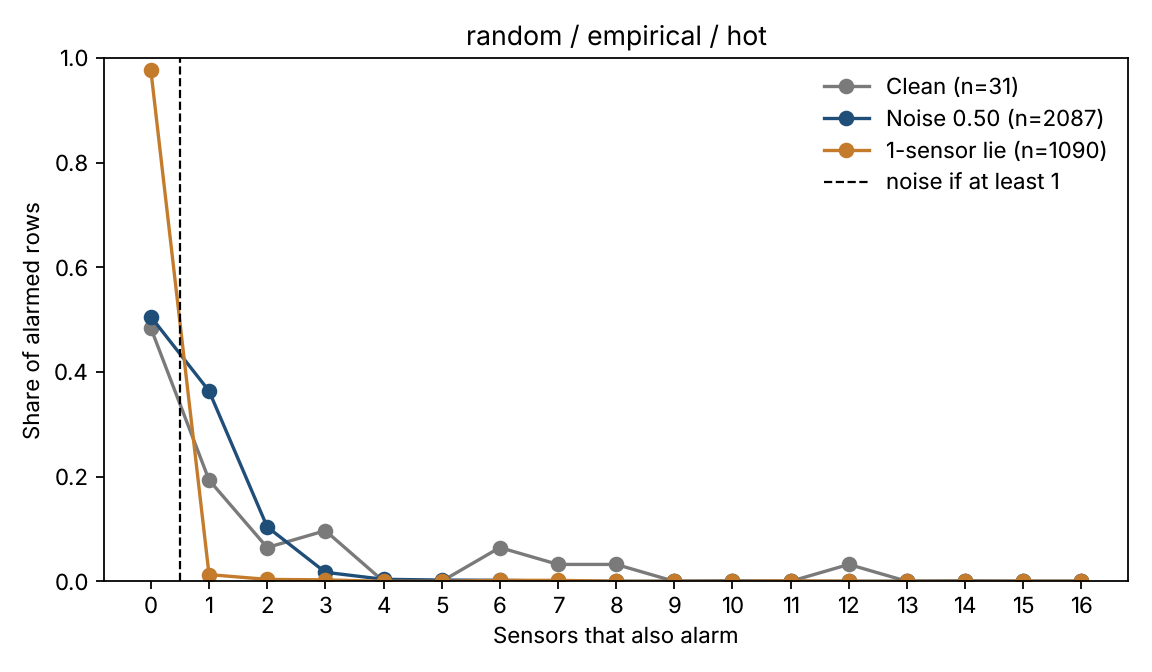
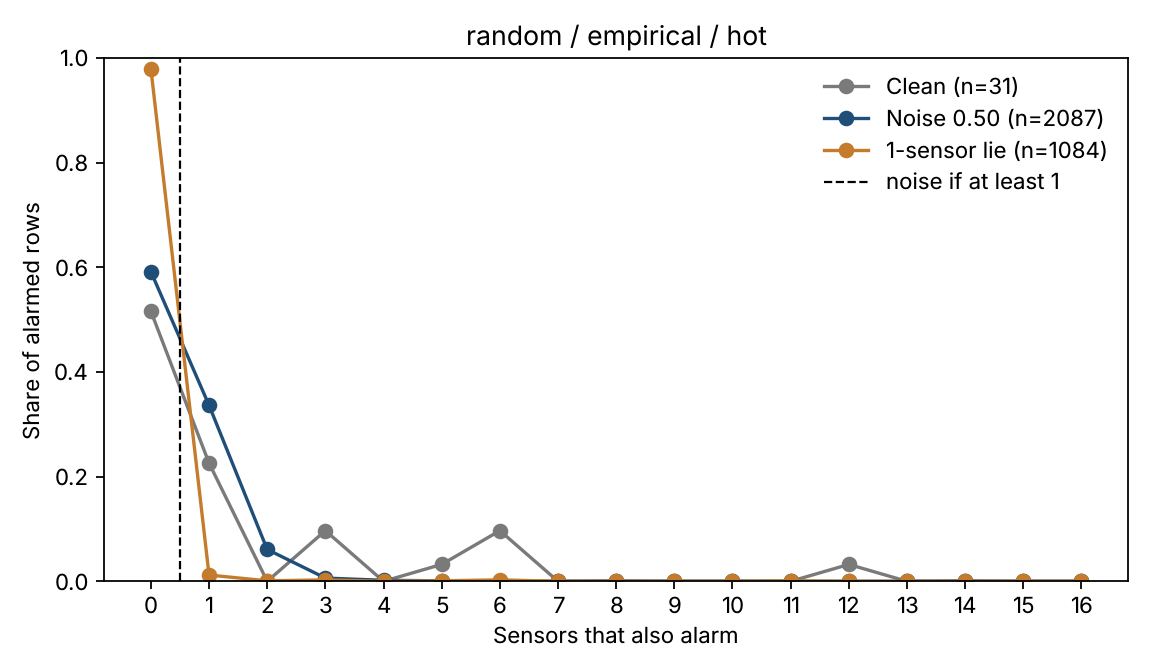
README: room results, refreshed numbers after the noise and line fixes
- New version-6 section: room-occupancy monitor, results, alarms by true
  head count, and how to unpack the data from the room-data branch.
- Gas, oven and home tables rerun on the current code. Oven: rounding
  noise to whole degrees lowers the tuned cutoff for the trend detector,
  trading obvious lies on 4-6 thermometers for noise; documented.
- Figures regenerated by the gas rerun.

Claude-Session: https://claude.ai/code/session_01V48yXftJiTEn5PjREyudH1

Changed region(s): [[0.125, 0.375, 0.5938, 0.875], [0.9375, 0.2188, 0.9688, 0.25]]

diff --git a/README.md b/README.md
@@ -65,13 +65,13 @@ python run_roast_spikes.py
 
 | | παλιό (`hot`) | νέο (`removal`) |
 |---|---|---|
-| καθαρές που ανάβουν | 0.008 | 0.011 |
-| θόρυβος 0.25 | 0.018 | **0.944** |
-| θόρυβος 0.50 | 0.445 | **1.000** |
-| ψέμα χαρακτηριστικών 5% | 0.000 | **0.753** |
-| ψέμα σε 1 αισθητήρα | 0.000 | **0.477** |
-| ψέμα σε 2 αισθητήρες | 0.000 | **0.672** |
-| same-gas ψέμα σε 1 αισθητήρα | 0.000 | **0.374** |
+| καθαρές που ανάβουν | 0.007 | 0.011 |
+| θόρυβος 0.25 | 0.015 | **0.941** |
+| θόρυβος 0.50 | 0.386 | **1.000** |
+| ψέμα χαρακτηριστικών 5% | 0.000 | **0.751** |
+| ψέμα σε 1 αισθητήρα | 0.000 | **0.471** |
+| ψέμα σε 2 αισθητήρες | 0.000 | **0.668** |
+| same-gas ψέμα σε 1 αισθητήρα | 0.000 | **0.370** |
 
 Με γραμμές χι-τετράγωνου το ψέμα σε 1 αισθητήρα πάει από 0.036 σε 0.854. Όταν πιάνεται ψέμα σε έναν αισθητήρα, το μέτρημα είναι 1 σχεδόν πάντα, και ο πρώτος ύποπτος είναι ο σωστός αισθητήρας. Η φιγούρα είναι το `figures/hot_sensors_random_empirical_removal.png`.
 
@@ -116,19 +116,19 @@ git show origin/oven-data:Dataset3/data_X.csv.gz | gunzip > Dataset3/data_X.csv
 
 | | παλιό (jump, hot) | trend, hot | trend, removal |
 |---|---|---|---|
-| καθαρά λεπτά που ανάβουν | 0.009 | 0.011 | 0.010 |
-| θόρυβος 1× άλμα | 0.000 | 0.000 | **0.580** |
-| θόρυβος 2× άλμα | 0.000 | 0.002 | **0.982** |
-| θόρυβος 4× άλμα | 0.000 | 0.452 | **1.000** |
-| εμφανές ψέμα σε 1 | 0.879 | **0.968** | 0.954 |
-| εμφανές ψέμα σε 6 | 1.000 | 1.000 | 0.352 |
-| πιστευτό ψέμα σε 1 | 0.002 | **0.069** | 0.064 |
-| πιστευτό ψέμα σε 6 | 0.005 | 0.155 | **0.184** |
-| κολλημένο σε 1 | 0.000 | **0.048** | 0.044 |
+| καθαρά λεπτά που ανάβουν | 0.008 | 0.009 | 0.010 |
+| θόρυβος 1× άλμα | 0.000 | 0.001 | **0.634** |
+| θόρυβος 2× άλμα | 0.000 | 0.301 | **0.984** |
+| θόρυβος 4× άλμα | 0.000 | 0.971 | **1.000** |
+| εμφανές ψέμα σε 1 | 0.874 | **0.964** | 0.951 |
+| εμφανές ψέμα σε 6 | **1.000** | 0.000 | 0.252 |
+| πιστευτό ψέμα σε 1 | 0.002 | 0.058 | **0.063** |
+| πιστευτό ψέμα σε 6 | 0.004 | 0.133 | **0.180** |
+| κολλημένο σε 1 | 0.000 | 0.041 | **0.044** |
 
-- Το `trend` είναι καλύτερο από το `jump` σχεδόν παντού.
-- Το `removal` πιάνει τον θόρυβο πολύ καλύτερα, αλλά βάζει το όριο ψηλά (8 στα 15), οπότε ένα εμφανές ψέμα σε 6 θερμόμετρα συχνά βγαίνει θόρυβος. Αν μετράει περισσότερο ο θόρυβος, `removal`. Αν μετράνε τα εμφανή ψέματα σε πολλά θερμόμετρα, `hot`.
-- Σε δεκάλεπτες φθορές, ο θόρυβος 1× άλμα πιάνεται στο 99% με `removal`.
+- Το `trend` πιάνει πολύ περισσότερο θόρυβο, πιστευτά ψέματα και κολλημένα θερμόμετρα από το `jump`.
+- Υπάρχει όμως αντάλλαγμα. Ο θόρυβος στρογγυλεύεται σε ακέραιους βαθμούς (έκδοση 6), οπότε αλλάζει μόνο λίγα θερμόμετρα κατά ±1 βαθμό. Για να τον πιάσει, το όριο «πόσοι είναι πολλοί» πέφτει (3 στα 15 για `trend, hot`, 7 για `trend, removal`), και ένα εμφανές ψέμα σε 6 θερμόμετρα βγαίνει θόρυβος. Το παλιό `jump, hot` κρατάει τα εμφανή ψέματα στο 100%, αλλά δεν πιάνει καθόλου θόρυβο. Αν μετράει περισσότερο ο θόρυβος, `trend, removal`. Αν μετράνε τα εμφανή ψέματα σε πολλά θερμόμετρα, `jump, hot`.
+- Σε δεκάλεπτες φθορές, ο θόρυβος 1× άλμα πιάνεται στο 99.6% με `trend, removal`.
 
 Τα όρια:
 
@@ -169,11 +169,11 @@ python run_home_monitor.py --steps 1 --detector jump --threshold empirical
 
 | | 1 βήμα, hot | 1 βήμα, removal | 30 βήματα, hot | 30 βήματα, removal |
 |---|---|---|---|---|
-| καθαρές που ανάβουν | 0.012 | 0.011 | 0.010 | 0.009 |
-| θόρυβος 2× βήμα | 0.000 | **0.568** | 0.689 | **1.000** |
-| θόρυβος 4× βήμα | 0.110 | **0.958** | 1.000 | 1.000 |
-| εμφανές ψέμα σε 1 | **0.944** | 0.934 | 0.707 | 0.672 |
-| εμφανές ψέμα σε 4 | **1.000** | 0.377 | 0.352 | **0.957** |
+| καθαρές που ανάβουν | 0.011 | 0.011 | 0.009 | 0.009 |
+| θόρυβος 2× βήμα | 0.000 | **0.575** | 0.772 | **1.000** |
+| θόρυβος 4× βήμα | 0.047 | **0.955** | 1.000 | 1.000 |
+| εμφανές ψέμα σε 1 | **0.942** | 0.929 | 0.694 | 0.672 |
+| εμφανές ψέμα σε 4 | **1.000** | 0.377 | 0.334 | **0.956** |
 | πιστευτό ψέμα σε 1 | 0.019 | 0.016 | 0.006 | 0.006 |
 | κολλημένο σε 1 | 0.000 | 0.001 | 0.000 | 0.001 |
 
@@ -207,6 +207,57 @@ python run_home_monitor.py --steps 1 --detector jump --threshold empirical
 
 Όταν κανείς δεν κουνιέται, ανάβει περίπου 1 στις 200 μετρήσεις. Μετά από είσοδο στην κουζίνα, περίπου 1 στις 20. Περίπου τα δύο τρίτα των «ψεύτικων» συναγερμών έρχονται μέσα σε 10 λεπτά από κίνηση. Είναι μάλλον αληθινά γεγονότα (μαγείρεμα, μπάνιο), όχι λάθη. Ένα σύστημα στο σπίτι θα πρέπει να ξέρει πού είναι ο άνθρωπος πριν φωνάξει.
 
+## Τι άλλαξε (έκδοση 6): δωμάτιο, και δίκαιος θόρυβος
+
+### Δωμάτιο με τον πραγματικό αριθμό ανθρώπων
+
+Τέταρτη μηχανή: ένα δωμάτιο (UCI, «Room Occupancy Estimation», https://archive.ics.uci.edu/dataset/864). Τέσσερις κόμβοι (S1–S4) μετράνε θερμοκρασία, φως και ήχο, ο S5 μετράει CO2 και οι S6, S7 είναι αισθητήρες κίνησης. Μία μέτρηση περίπου κάθε 30 δευτερόλεπτα, επτά μέρες. **Κάθε μέτρηση λέει πόσοι άνθρωποι (0–3) ήταν στο δωμάτιο.** Είναι το μόνο σύνολο με αληθινή απάντηση για το αν ένας συναγερμός είναι ψεύτικος ή αληθινό γεγονός.
+
+Τα δεδομένα είναι συμπιεσμένα στο branch `room-data`:
+
+```
+mkdir -p DatasetRoom
+git show origin/room-data:DatasetRoom/Occupancy_Estimation.csv.gz | gunzip > DatasetRoom/Occupancy_Estimation.csv
+python run_room_monitor.py                       # γύρω στο 1 λεπτό
+```
+
+Κρατάμε 13 κανάλια. Το `S5_CO2_Slope` υπολογίζεται από το CO2, δεν μετριέται, άρα ένα ψέμα σε αυτό δεν σημαίνει τίποτα. Οι S6, S7 είναι διακόπτες (0 ή 1) και ο θόρυβος πάνω σε διακόπτη δεν είναι φυσικός.
+
+Τι βρήκαμε στα δεδομένα: τα φώτα και οι ήχοι των τεσσάρων κόμβων κουνιούνται μαζί (συσχέτιση βημάτων 0.2–0.6), γιατί αντιδρούν στους ίδιους ανθρώπους. Η θερμοκρασία και ο ήχος τρεμοπαίζουν πάνω-κάτω (αυτοσυσχέτιση βημάτων γύρω στο −0.45).
+
+Αποτελέσματα (1 βήμα, γραμμές από τα δεδομένα στο 1%, διάμεσος από τα πέντε περάσματα):
+
+| | jump, hot | jump, removal | trend, hot | trend, removal |
+|---|---|---|---|---|
+| καθαρές που ανάβουν | 0.008 | 0.008 | 0.006 | 0.009 |
+| θόρυβος 1× βήμα | 0.007 | 0.046 | 0.016 | **0.158** |
+| θόρυβος 2× βήμα | 0.266 | 0.831 | 0.263 | **0.927** |
+| θόρυβος 4× βήμα | 0.923 | 0.999 | 0.891 | **1.000** |
+| εμφανές ψέμα σε 1 | **0.506** | 0.468 | 0.495 | 0.492 |
+| εμφανές ψέμα σε 4 | 0.322 | 0.656 | 0.341 | **0.663** |
+| πιστευτό ψέμα σε 1 | 0.009 | 0.009 | **0.031** | 0.014 |
+| κολλημένο σε 1 | 0.000 | 0.000 | 0.000 | 0.000 |
+
+Το `trend, removal` είναι το καλύτερο εδώ. Τα εμφανή ψέματα πιάνονται μόνο γύρω στο 50%: τις περισσότερες ώρες το δωμάτιο είναι άδειο και σκοτεινό, οπότε μια τιμή από άλλη ώρα συχνά μοιάζει με την αληθινή.
+
+Συναγερμοί σε καθαρές μετρήσεις του τεστ που δεν χρησιμοποιήθηκαν ούτε για τις γραμμές ούτε για το όριο:
+
+| | άδειο (1309 μετρήσεις) | με ανθρώπους (124) | μπήκε ή βγήκε κάποιος (14) |
+|---|---|---|---|
+| jump, hot | 0.001 | 0.056 | 0.071 |
+| jump, removal | 0.000 | 0.040 | 0.071 |
+| trend, hot | 0.000 | 0.056 | 0.071 |
+| trend, removal | 0.000 | 0.097 | 0.071 |
+
+Σε άδειο δωμάτιο δεν ανάβει σχεδόν τίποτα. Σχεδόν όλοι οι «ψεύτικοι» συναγερμοί είναι άνθρωποι στο δωμάτιο, δηλαδή αληθινά γεγονότα, όπως και στο σπίτι. Τα δείγματα με ανθρώπους στο τεστ είναι λίγα (124 και 14), οπότε αυτά τα ποσοστά είναι χοντρικά.
+
+### Δύο διορθώσεις που αφορούν όλες τις μηχανές
+
+Το δωμάτιο έδειξε ένα λάθος στο τεστ. Ο θόρυβος 0.25× βήμα έβγαινε «πιασμένος» 14% με `jump, hot`, και τα εμφανή ψέματα 0%. Οι θερμοκρασίες του δωματίου παίρνουν μόνο πολλαπλάσια του 0.06 βαθμού. Ο θόρυβος έφτιαχνε τιμές όπως 25.007, που κανένας πραγματικός αισθητήρας δεν δίνει, και ο έλεγχος τις έπιανε από ένα τέχνασμα των ισοπαλιών.
+
+1. **Ο θόρυβος στρογγυλεύεται στην ανάλυση του αισθητήρα** (`timeseries.py`). Η ανάλυση κάθε καναλιού βγαίνει από τα καθαρά δεδομένα (το μικρότερο βήμα ανάμεσα σε διαφορετικές τιμές). Θόρυβος μικρότερος από μισό βήμα στρογγυλεύεται στο μηδέν, αφήνει την ένδειξη ίδια, και η δίκαιη βαθμολογία τον αφήνει έξω. Αυτό άλλαξε τα νούμερα θορύβου του φούρνου και του σπιτιού (οι πίνακες πιο πάνω είναι ενημερωμένοι).
+2. **Οι γραμμές από τα δεδομένα μπαίνουν ανάμεσα σε τιμές, όχι πάνω σε τιμή** (`thresholds.py`, `consistency.py`). Μια γραμμή μπαίνει στη μέση ανάμεσα στο ποσοστημόριο και στην επόμενη μεγαλύτερη καθαρή τιμή. Αν δεν υπάρχει μεγαλύτερη, μπαίνει πάνω από το ποσοστημόριο κατά το μισό του προηγούμενου κενού. Ο ρυθμός συναγερμών στα καθαρά δεδομένα δεν αλλάζει. Στο αέριο τα νούμερα κουνήθηκαν το πολύ 0.06 (οι πίνακες πιο πάνω είναι ενημερωμένοι).
+
 ## Πώς το τρέχεις
 
 ```
@@ -217,6 +268,7 @@ python run_neighbor_check.py                     # ένα πέρασμα, hot κ
 python run_roast_spikes.py                       # φούρνος, όλοι οι συνδυασμοί (θέλει το Dataset3/)
 python run_roast_spikes.py --minutes 1 --detector trend --threshold empirical --stage2 removal
 python run_home_monitor.py                       # σπίτι (θέλει το DatasetHome/)
+python run_room_monitor.py                       # δωμάτιο (θέλει το DatasetRoom/)
 ```
 
 Οι φιγούρες γράφονται ως `figures/hot_sensors_<split>_<threshold>.png` για το `hot` και `figures/hot_sensors_<split>_<threshold>_removal.png` για το `removal`.
